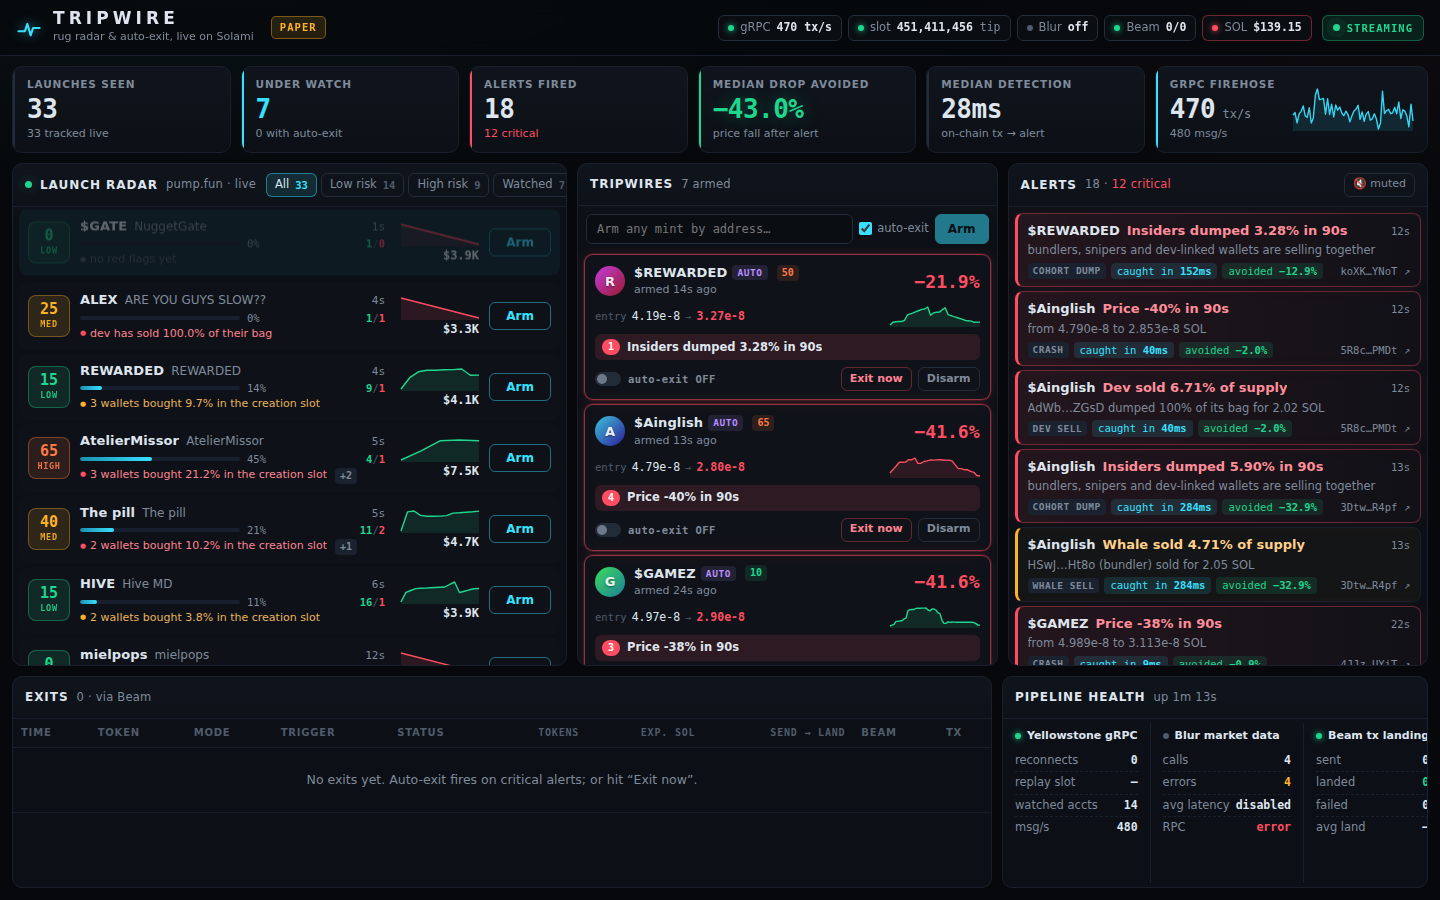
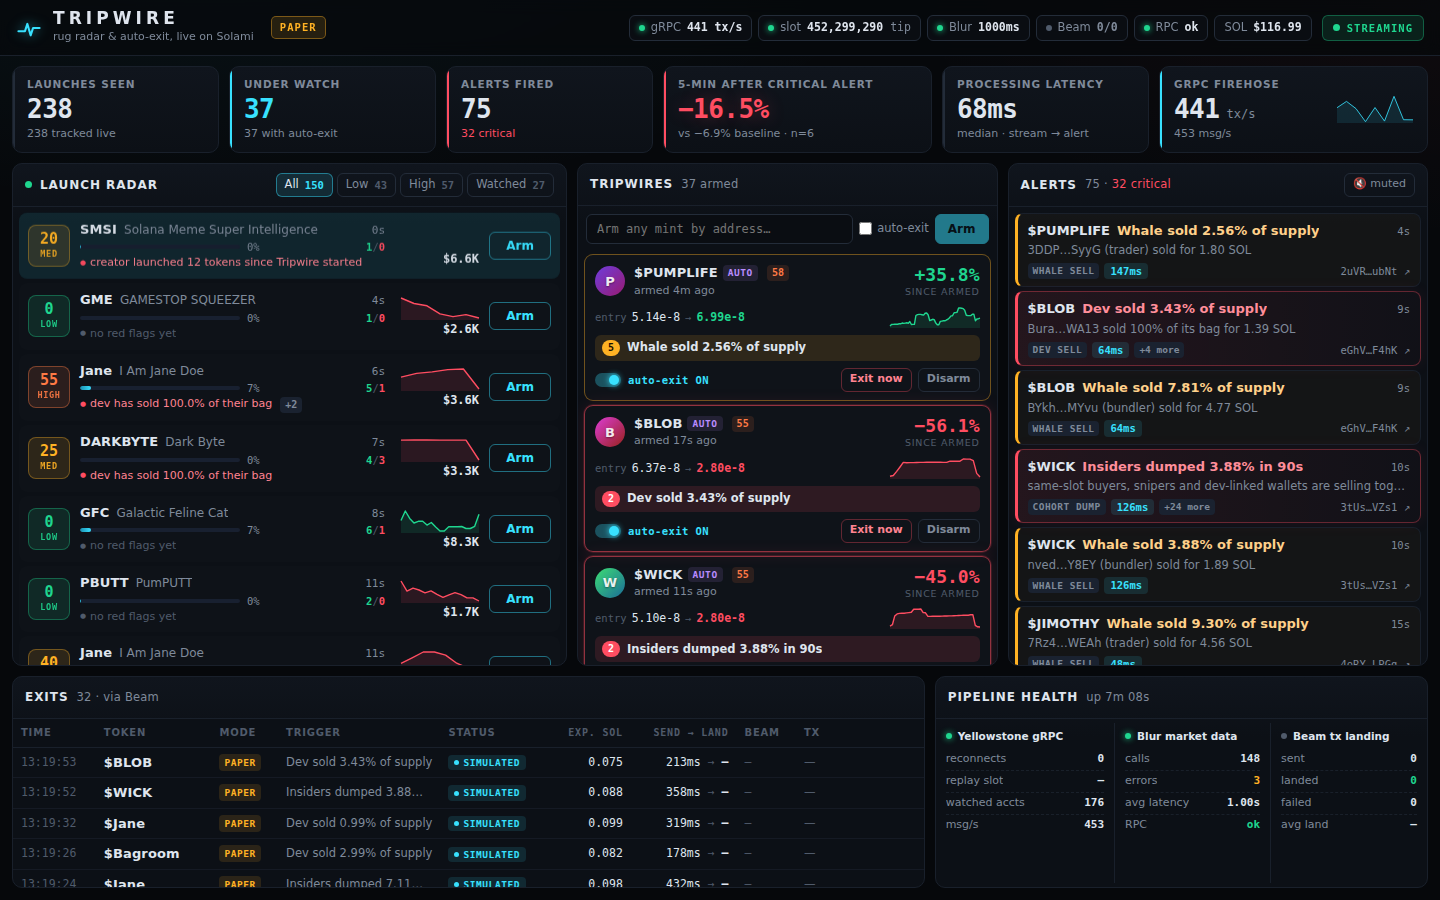
Live dashboard screenshot and first outcome sample in README

diff --git a/README.md b/README.md
@@ -9,7 +9,7 @@ Tripwire watches them for you:
 1. **Launch Radar.** Every pump.fun launch is picked up from Solami's Yellowstone gRPC stream the moment it lands. Tripwire reconstructs its cohorts itself (dev, bundlers, snipers, wallets the dev funds with tokens) and gives it a 0–100 risk score with the reasons spelled out.
 2. **Tripwires.** Arm any token, or let Tripwire auto-arm the ones gaining traction. Rules fire when the dev sells, the dev moves supply to fresh wallets, insiders dump together, liquidity is pulled, a whale exits, or price crashes. Tripwire follows the money: a wallet the dev sends tokens to is treated as the dev.
 3. **Auto-exit via Beam.** On a critical alert, Tripwire can sell your position. It builds the swap from Jupiter's instructions, adds a Beam tip, signs it with your wallet, and lands it through Solami's Beam, then reads Beam's landing record back. Paper mode (the default) quotes and simulates instead.
-4. **Honest proof.** After every alert, Tripwire records the signed price move at +1 and +5 minutes. The dashboard compares the median 5-minute move after critical alerts with a baseline: the same watched tokens sampled at random times. It does not show a cherry-picked "loss avoided" figure.
+4. **Honest proof.** After every alert, Tripwire records the signed price move at +1 and +5 minutes. The dashboard compares the median 5-minute move after critical alerts with a baseline: the same watched tokens sampled at random times. It does not show a cherry-picked "loss avoided" figure. In a first 7-minute mainnet run (2026-10-01, a small sample of n≈6 settled alerts), the median 5-minute move after critical alerts was about −16% to −33%, against −7% to −9% for the baseline.
 
 ### Proof on mainnet
 
